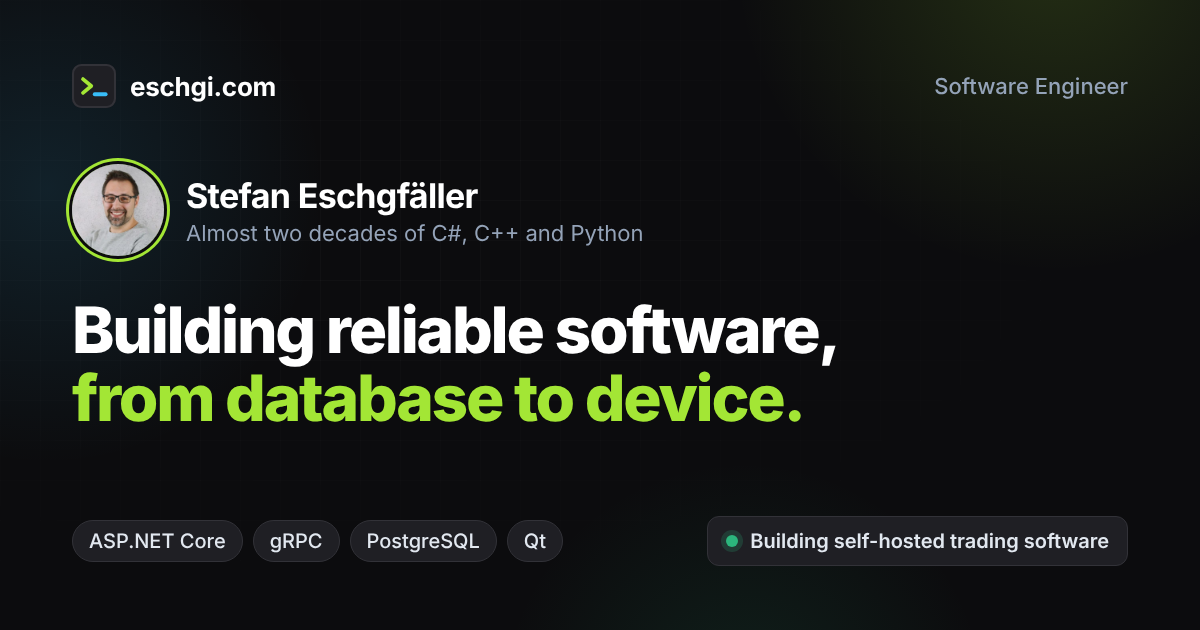
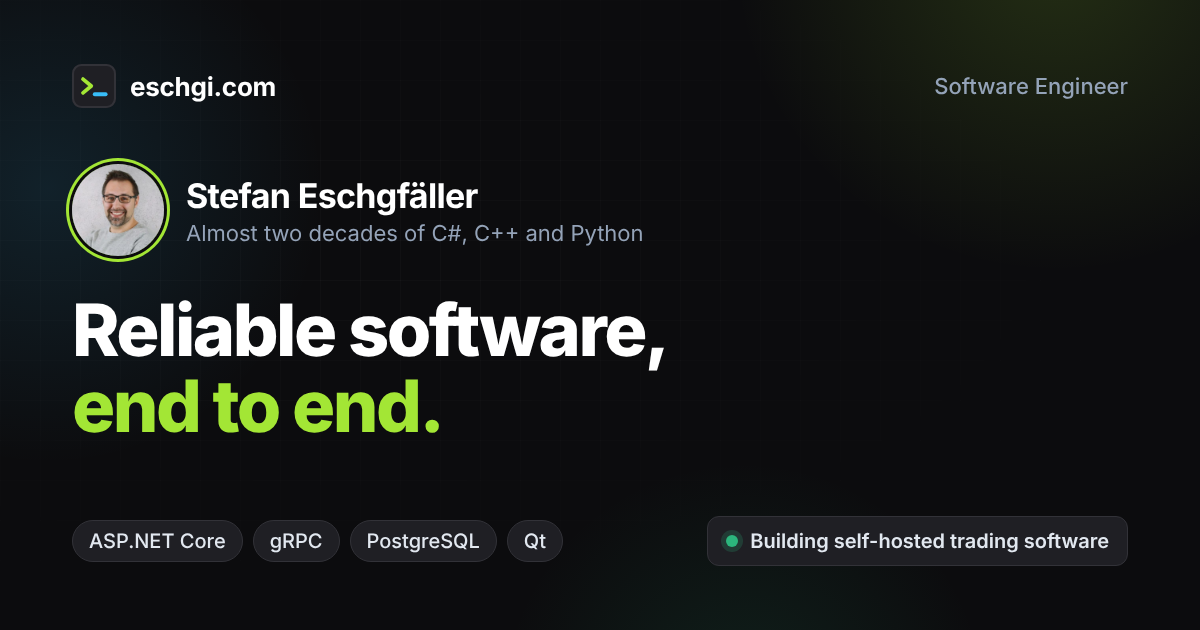
Lead with "Reliable software, end to end."
The hero's headline is now "Reliable software, end to end.", with the
backends and the applications that use them (desktop with Qt, web with
React, mobile with Flutter) in the line below it. C#, C++ and Python
move into the line under the name, and the link-preview image carries
the same headline.

Claude-Session: https://claude.ai/code/session_01GaB3wN334P2uxnyHRGPX12

Changed region(s): [[0.0617, 0.4825, 0.7092, 0.6937]]

diff --git a/docs/index.html b/docs/index.html
@@ -139,20 +139,19 @@
             <img class="hero__avatar" src="assets/avatar.jpg" width="64" height="64" alt="Portrait of Stefan Eschgfäller" />
             <div>
               <p class="hero__hello">Hi, I'm <strong>Stefan Eschgfäller</strong></p>
-              <p class="hero__role">Software engineer · almost two decades in production code</p>
+              <p class="hero__role">Software engineer · almost two decades of C#, C++ and Python</p>
             </div>
           </div>
 
           <h1 class="hero__title" id="hero-title">
-            Building reliable software,
-            <span class="text-accent">from database to device.</span>
+            Reliable software,
+            <span class="text-accent">end to end.</span>
           </h1>
 
           <p class="hero__lead">
-            I design and build software in C#, C++ and Python: backends on ASP.NET Core, gRPC and
-            PostgreSQL, and the applications that use them — on the desktop with Qt, in the browser
-            and on the phone.
-            These days AI coding agents work at my side; the architecture and the review stay with me.
+            Backends on ASP.NET Core and PostgreSQL, and the applications that use them: desktop with
+            Qt, web with React, mobile with Flutter. These days AI coding agents work at my side; the
+            architecture and the review stay with me.
           </p>
 
           <div class="hero__actions">
